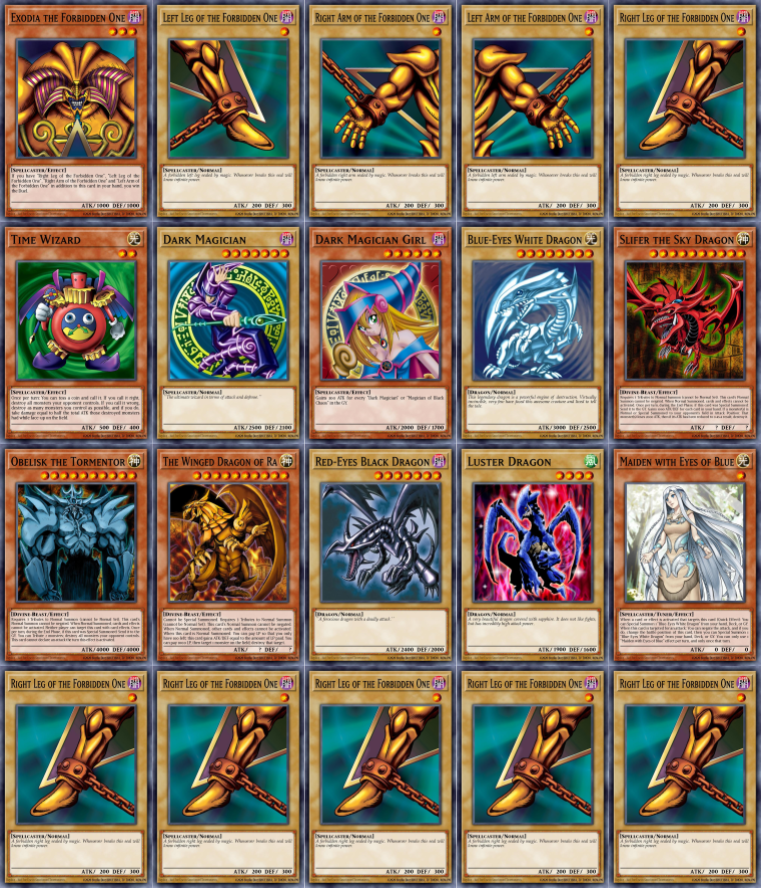
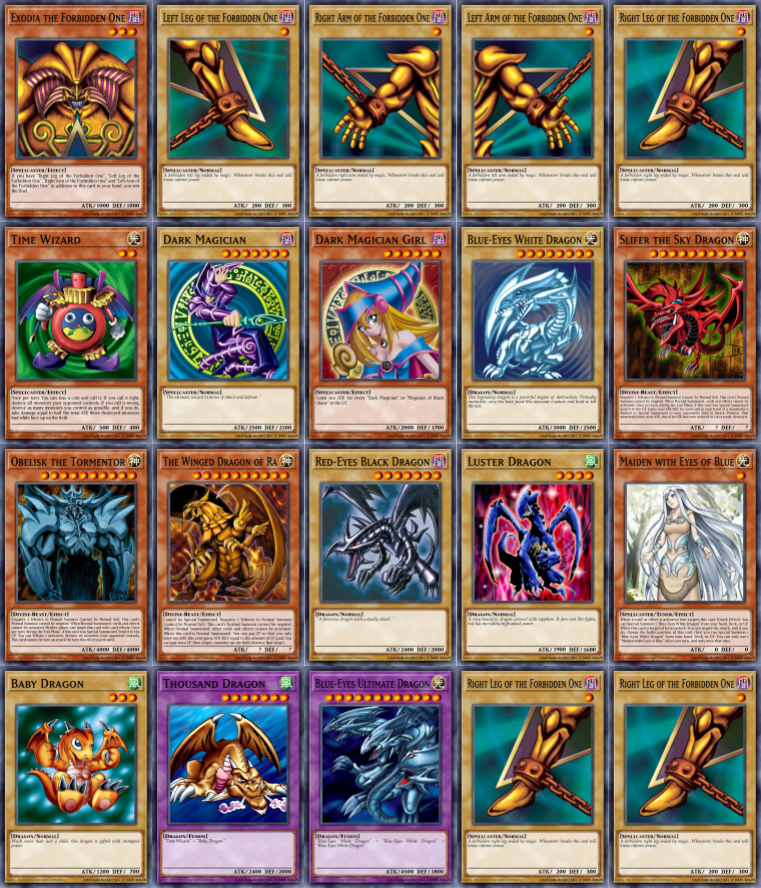
Add Fusions, fix atlas

Changed region(s): [[0.0, 0.7297, 0.6045, 1.0]]

diff --git a/README.md b/README.md
@@ -65,6 +65,29 @@ X1 mult, +X2 for each hand lost due to Ra's effect
 
 1 in 8 chance to self-destruct and spawn a Blue-Eyes White Dragon in the next shop.
 
+## Baby Dragon
+**Common**
+
++12 Chips
+
++7 Mult
+
+## Thousand Dragon
+**Fusion**
+
++24 Chips
+
+X2 Mult
+
+(Baby Dragon, Time Wizard)
+
+## Blue-Eyes Ultimate Dragon
+**Fusion**
+
++900 Chips
+
+(Blue-Eyes White Dragon)
+
 ## Graceful Charity
 **Consumable**
 
@@ -84,6 +107,11 @@ Remove eternal, perishable, and rental from 1 selected joker.
 **Consumable**
 
 Destroy 1 selected playing card.
+
+## Polymerization
+**Consumable**
+
+Fuse 2+ compatable jokers.
 
 ## Raigeki
 **Consumable**
